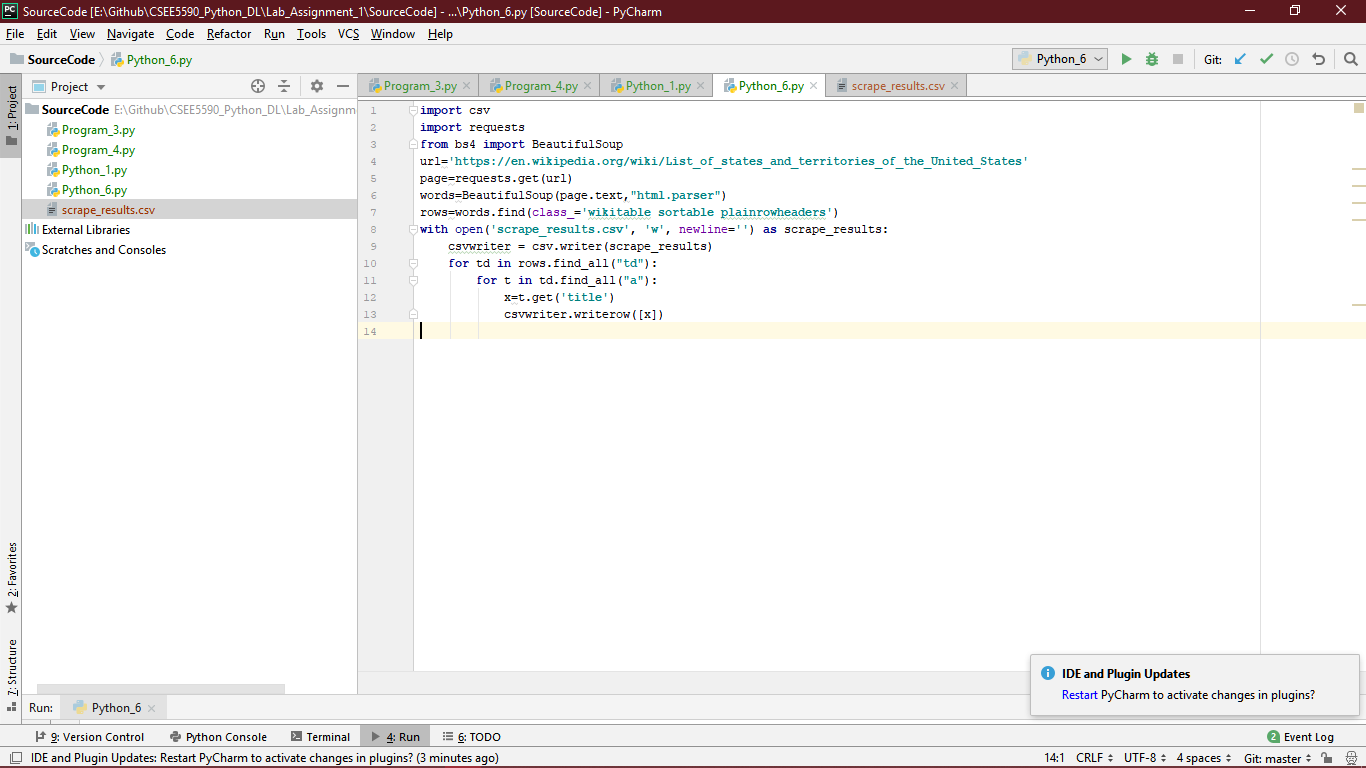
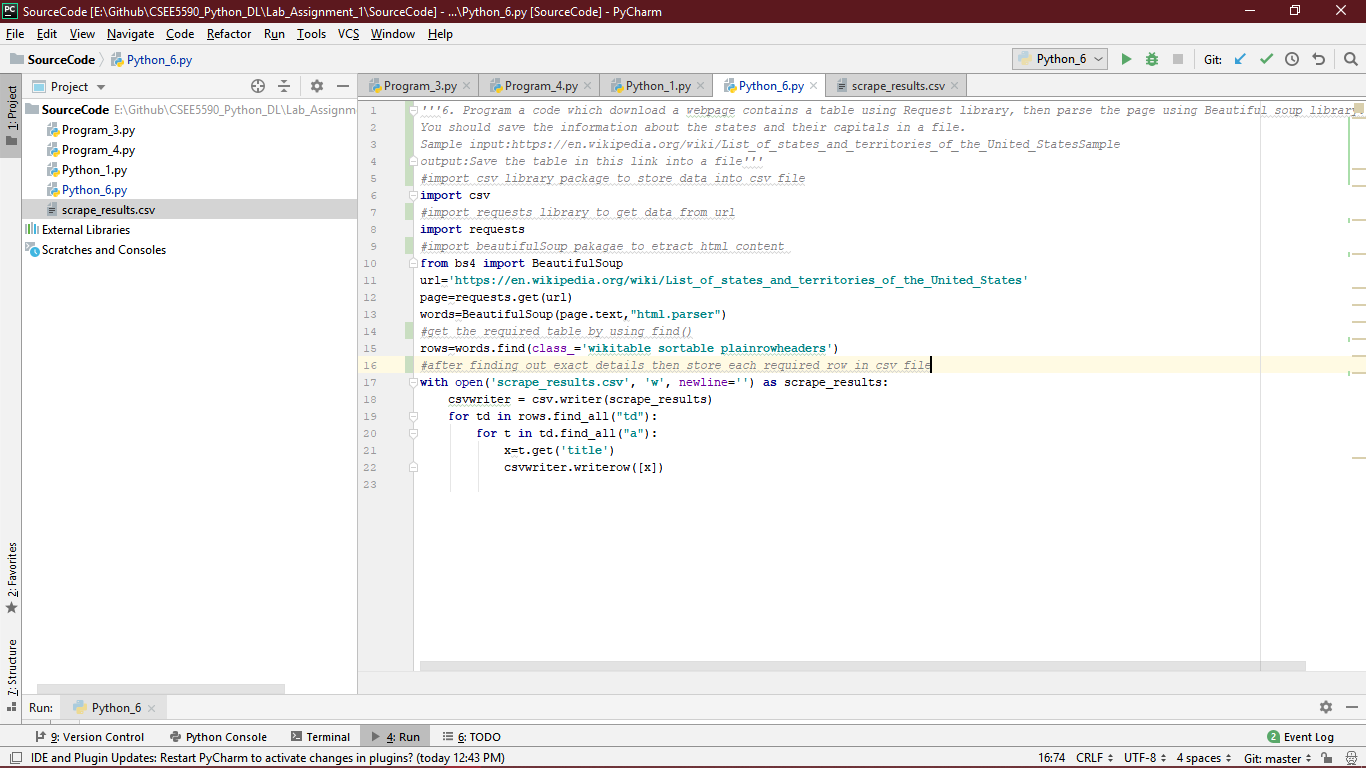
commit

diff --git a/Lab_Assignment_1/SourceCode/Python_6.py b/Lab_Assignment_1/SourceCode/Python_6.py
@@ -1,10 +1,19 @@
+'''6. Program a code which download a webpage contains a table using Request library, then parse the page using Beautiful soup library.
+You should save the information about the states and their capitals in a file.
+Sample input:https://en.wikipedia.org/wiki/List_of_states_and_territories_of_the_United_StatesSample
+output:Save the table in this link into a file'''
+#import csv library package to store data into csv file
 import csv
+#import requests library to get data from url
 import requests
+#import beautifulSoup pakagae to etract html content
 from bs4 import BeautifulSoup
 url='https://en.wikipedia.org/wiki/List_of_states_and_territories_of_the_United_States'
 page=requests.get(url)
 words=BeautifulSoup(page.text,"html.parser")
+#get the required table by using find()
 rows=words.find(class_='wikitable sortable plainrowheaders')
+#after finding out exact details then store each required row in csv file
 with open('scrape_results.csv', 'w', newline='') as scrape_results:
     csvwriter = csv.writer(scrape_results)
     for td in rows.find_all("td"):
